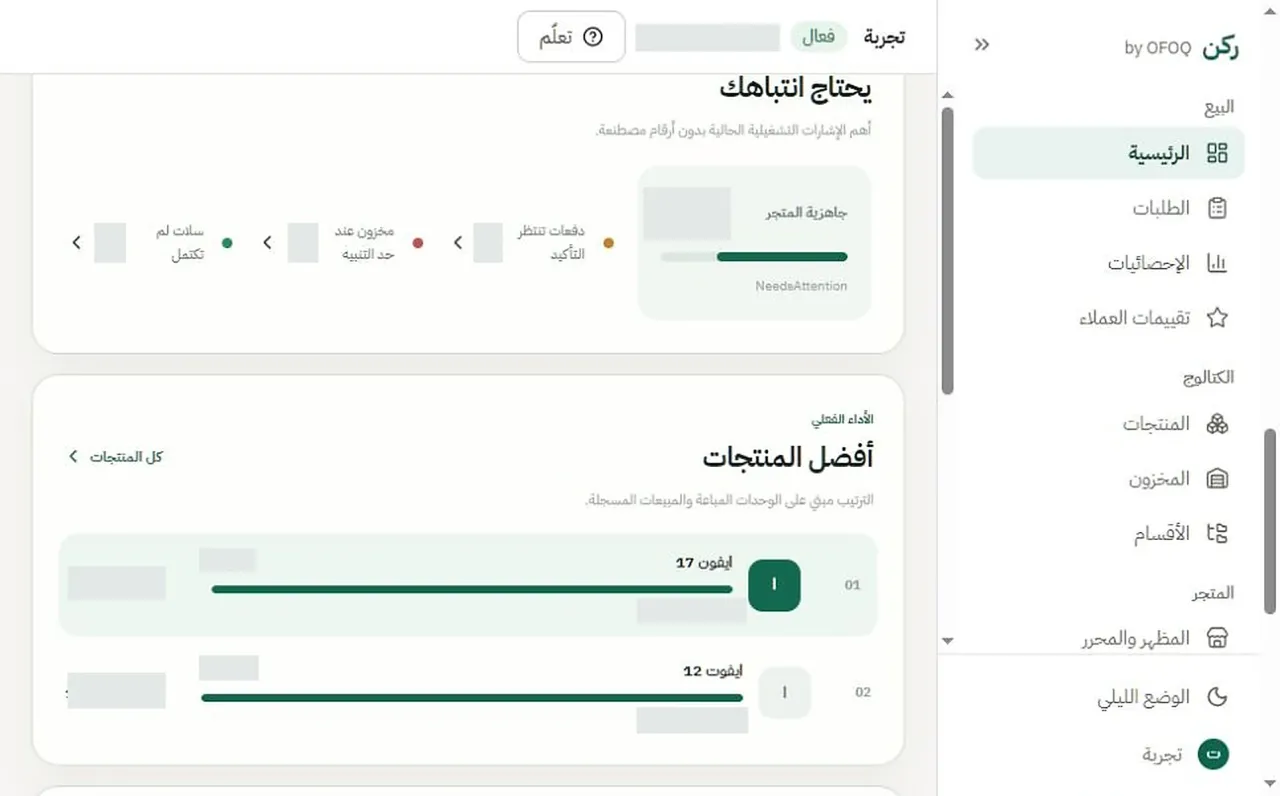
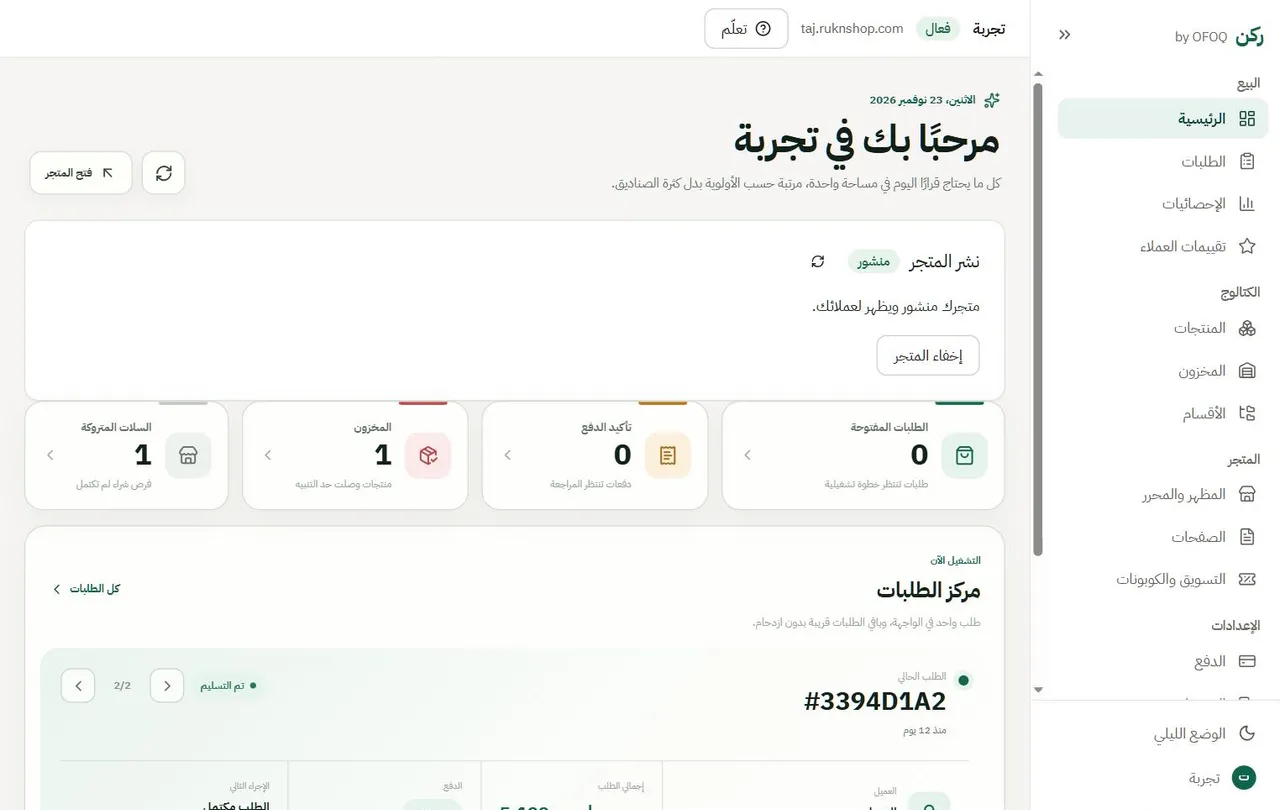
RUKN: new real screenshots (V2), live status, updated features; keep source resolution in image variants
Claude-Session: https://claude.ai/code/session_01MBwK4Ufm9Msu1HY261ki85

diff --git a/src/content/projects/rukn.ts b/src/content/projects/rukn.ts
@@ -20,10 +20,10 @@ export const rukn: Project = {
     ar: "المؤسس — قيادة المنتج والمعمارية والتطوير",
     en: "Founder — product, architecture & engineering lead",
   },
-  status: "in-development",
+  status: "live",
   statusNote: {
-    ar: "المنصة في مرحلة التطوير والتجهيز، والصور الحالية مؤقتة.",
-    en: "The platform is in active development; current visuals are provisional.",
+    ar: "المنصة تعمل، ومن المتاجر الحقيقية عليها متجر روان للخدمات المكتبية.",
+    en: "The platform is live; among the real stores running on it is Rawan Office Services.",
   },
   stack: [
     { name: "ASP.NET Core / .NET 10" },
@@ -32,17 +32,17 @@ export const rukn: Project = {
     { name: "PostgreSQL" },
     { name: "Entity Framework Core" },
     { name: "Docker" },
-    { name: "Cloudflare", note: { ar: "طبقة الحافة", en: "edge layer" } },
-    { name: "Bunny", note: { ar: "تخزين وتوصيل الوسائط", en: "media storage & delivery" } },
+        { name: "Cloudflare", note: { ar: "طبقة الحافة", en: "edge layer" } },
+        { name: "Bunny", note: { ar: "تخزين وتوصيل الوسائط", en: "media storage & delivery" } },
   ],
   accent: { dark: "#86b98f", light: "#2f6b3b" },
-  chapter: { bg: "linear-gradient(160deg,#eef3ec 0%,#d3e2d6 60%,#b3c6b8 100%)", ink: "#123d26", sub: "#3f5c4a", dark: false },
+  chapter: { bg: "linear-gradient(180deg,#f5f3ef 0%,#e5eae6 100%)", ink: "#123d26", sub: "#4a5d52", dark: false },
   proof: [
     { value: { ar: "متعدد التجار", en: "Multi-merchant" }, label: { ar: "منصة واحدة تخدم متاجر كثيرة ببيانات معزولة", en: "One platform, many stores, isolated data" } },
     { value: { ar: "30 يوماً", en: "30 days" }, label: { ar: "تجربة مجانية قبل الاشتراك", en: "Free trial before subscribing" } },
-    { value: { ar: ".NET 10", en: ".NET 10" }, label: { ar: "نواة ASP.NET Core مع PostgreSQL", en: "ASP.NET Core core on PostgreSQL" } },
+    { value: { ar: "متجر حقيقي", en: "A live store" }, label: { ar: "روان للخدمات المكتبية يعمل على المنصة", en: "Rawan Office Services runs on the platform" } },
   ],
-  mediaNote: { ar: "لقطات من المنصة. حزمة صور مؤقتة وستُحدَّث.", en: "Screens from the platform. A provisional image set, to be updated." },
+  mediaNote: { ar: "لقطات حقيقية من ركن: لوحة حساب تاجر تجريبي، وواجهة متجر روان. البيانات الخاصة مطموسة.", en: "Real screens from RUKN: a demo merchant account's dashboard and Rawan's storefront. Private data is blurred." },
   facts: [
     { label: { ar: "النموذج التجاري", en: "Business model" }, value: { ar: "اشتراكات شهرية وسنوية بباقات متعددة", en: "Monthly & yearly plans, multiple tiers" } },
     { label: { ar: "التجربة المجانية", en: "Free trial" }, value: { ar: "30 يوماً", en: "30 days" } },
@@ -82,23 +82,24 @@ export const rukn: Project = {
   },
   solution: {
     ar: [
-      "لوحة تحكم للتاجر تجمع إدارة المتجر والكتالوج والعمليات اليومية، وواجهة متجر يتصفحها العميل النهائي على الجوال والكمبيوتر، ومحرر لتخصيص مظهر المتجر دون كتابة كود.",
+      "لوحة تحكم للتاجر تجمع حالة النشر والطلبات والمخزون والدفع في شاشة واحدة، ومحرر بصري يعرض معاينة حية للمتجر على الكمبيوتر والجوال، واختيار لشخصية الثيم وهوية المتجر — ثم واجهة متجر حقيقية يتسوق منها العملاء، كمتجر روان للخدمات المكتبية.",
     ],
     en: [
-      "A merchant dashboard that brings store management, catalogue and daily operations together; a customer-facing storefront for mobile and desktop; and a store editor for customizing the look without writing code.",
+      "A merchant dashboard that brings publish status, orders, stock and payments into one screen; a visual editor with a live desktop and mobile preview; a choice of theme character and brand — and then a real storefront customers shop from, such as Rawan Office Services.",
     ],
   },
   features: [
-    { title: { ar: "إدارة المتاجر", en: "Store management" } },
+    { title: { ar: "لوحة تحكم وحالة النشر", en: "Dashboard & publish status" } },
     { title: { ar: "المنتجات والتصنيفات", en: "Products & categories" } },
-    { title: { ar: "المخزون", en: "Inventory" } },
-    { title: { ar: "الطلبات", en: "Orders" } },
-    { title: { ar: "العملاء", en: "Customers" } },
-    { title: { ar: "الدفع والشحن", en: "Payments & shipping" } },
-    { title: { ar: "المظهر ومحرر المتجر", en: "Themes & store editor" } },
-    { title: { ar: "التقارير والإحصائيات", en: "Reports & analytics" } },
-    { title: { ar: "الموظفون وصلاحياتهم", en: "Staff & permissions" } },
-    { title: { ar: "صلاحيات المنصة", en: "Platform administration" } },
+    { title: { ar: "المخزون ومواقع التخزين", en: "Inventory & storage locations" } },
+    { title: { ar: "الطلبات حسب المرحلة", en: "Orders by stage" } },
+    { title: { ar: "السلات المتروكة", en: "Abandoned carts" } },
+    { title: { ar: "الدفع عبر شام كاش", en: "Payments via Sham Cash" } },
+    { title: { ar: "التوصيل والاستلام", en: "Delivery & pickup" } },
+    { title: { ar: "المحرر البصري للمتجر", en: "Visual store editor" } },
+    { title: { ar: "الهوية والثيمات", en: "Brand & themes" } },
+    { title: { ar: "الإحصائيات", en: "Analytics" } },
+    { title: { ar: "الموظفون والصلاحيات", en: "Staff & permissions" } },
     { title: { ar: "الاشتراكات والباقات", en: "Subscriptions & plans" } },
   ],
   engineering: {
@@ -173,15 +174,17 @@ export const rukn: Project = {
   ],
   results: {
     ar: [
-      "لا توجد بعد أرقام تشغيلية منشورة للمنصة، ولن تُعرض أي مؤشرات قبل قياسها فعلياً.",
+      "المنصة تعمل، ومتجر روان للخدمات المكتبية متجر حقيقي قائم عليها.",
+      "لا تُعرض أرقام مبيعات أو أعداد متاجر لعدم وجود بيانات موثقة للنشر.",
     ],
     en: [
-      "There are no published operating metrics for the platform yet, and none will be shown here before they are actually measured.",
+      "The platform is live, and Rawan Office Services is a real store running on it.",
+      "No sales figures or store counts are shown, as no verified data is available for publication.",
     ],
   },
   currentStatus: {
-    ar: ["قيد التطوير والتجهيز للإطلاق. الصور المعروضة مؤقتة وستُستبدل بحزمة مصورة جديدة."],
-    en: ["In development and preparing for launch. Current visuals are provisional and will be replaced with a new screenshot set."],
+    ar: ["منشورة وتعمل، مع استمرار التطوير."],
+    en: ["Live, with development ongoing."],
   },
   next: {
     ar: ["استكمال تجهيز الإطلاق، ثم توسيع خيارات الدفع والشحن المحلية ومحرر المتجر بناءً على ملاحظات التجار الأوائل."],
@@ -197,8 +200,5 @@ export const rukn: Project = {
     { key: "analytics", label: { ar: "الإحصائيات", en: "Analytics" } },
     { key: "storefront-mobile", label: { ar: "واجهة المتجر على الجوال", en: "Mobile storefront" } },
   ],
-  pendingMedia: {
-    ar: "حزمة صور ركن (RUKN_Portfolio_Enhanced) لم تُرفق بعد. بمجرد إضافتها تظهر هنا تلقائياً.",
-    en: "The RUKN image set (RUKN_Portfolio_Enhanced) hasn't been added yet. Once it is, it appears here automatically.",
-  },
+
 };
